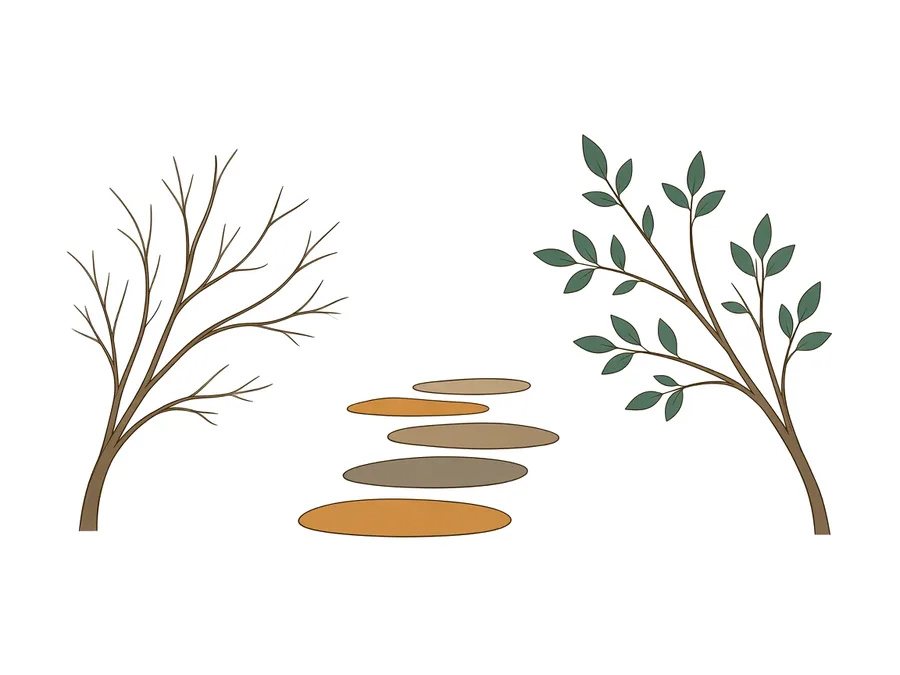
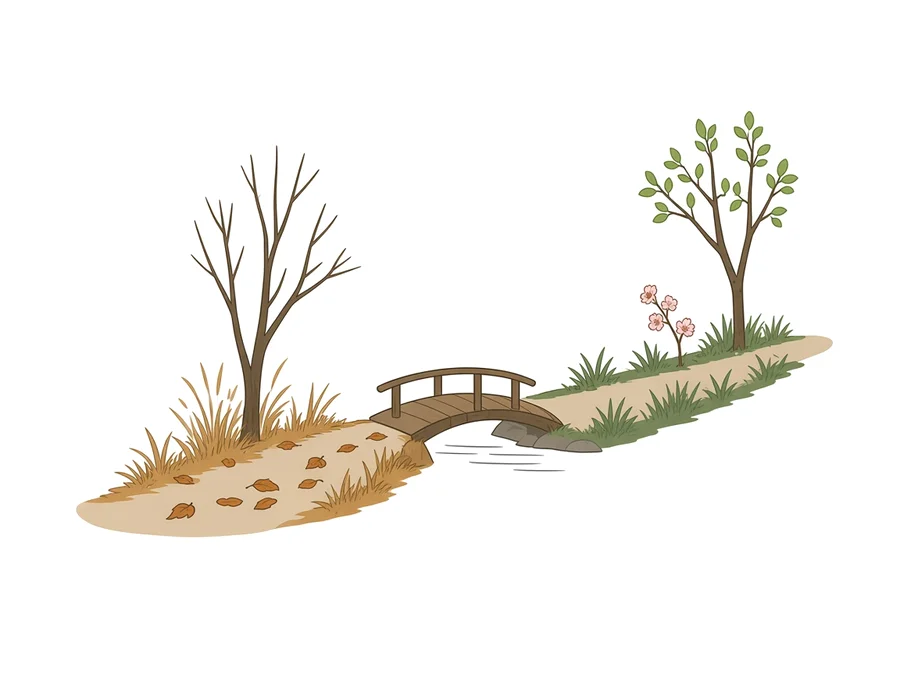
お名前を必須に・時刻欄を常に表示・任意欄は空でも進める・切り替わりの絵を変更

Changed region(s): [[0.0622, 0.1556, 0.9333, 0.8089]]

diff --git a/index.html b/index.html
@@ -46,7 +46,7 @@
     <fieldset>
       <legend>あなた</legend>
       <label class="field">
-        <span class="label">お名前<em>任意</em></span>
+        <span class="label">お名前</span>
         <input name="n" maxlength="20" placeholder="例：山田 花子" autocomplete="name">
       </label>
       <div class="field">
@@ -65,20 +65,17 @@
         </div>
         <small>10年ごとの流れの向きが、性別で変わります。</small>
       </div>
-      <details class="more">
-        <summary>生まれた時刻がわかる方（任意）</summary>
-        <div class="more-body">
-          <label class="field">
-            <span class="label">生まれた時刻</span>
-            <input type="time" name="t">
-          </label>
-          <label class="field">
-            <span class="label">生まれた都道府県</span>
-            <select name="p"><option value="">選ばない</option></select>
-          </label>
-          <small>時刻を入れると、命式に4つ目の柱（時柱）が加わります。タイプは変わりません。</small>
-        </div>
-      </details>
+      <div class="more">
+        <label class="field">
+          <span class="label">生まれた時刻<em>任意</em></span>
+          <input type="time" name="t">
+        </label>
+        <label class="field">
+          <span class="label">生まれた都道府県<em>任意</em></span>
+          <select name="p"><option value="">選ばない</option></select>
+        </label>
+        <small>時刻を入れると、命式に4つ目の柱（時柱）が加わります。タイプは変わりません。</small>
+      </div>
     </fieldset>
 
     <fieldset>
@@ -97,19 +94,19 @@
         </div>
       </div>
       <div class="field">
-        <span class="label">性別</span>
+        <span class="label">性別<em>任意</em></span>
         <div class="seg">
           <label><input type="radio" name="ps" value="M"><span>男性</span></label>
           <label><input type="radio" name="ps" value="F"><span>女性</span></label>
         </div>
       </div>
       <div class="field">
-        <span class="label">見たい関係</span>
+        <span class="label">見たい関係<em>任意</em></span>
         <div class="seg">
           <label><input type="radio" name="r" value="love"><span>恋愛</span></label>
           <label><input type="radio" name="r" value="work"><span>仕事</span></label>
         </div>
-        <small>上司・部下などの肩書きは聞きません。命式から本来の役割を出します。</small>
+        <small>選ばないときは恋愛で見ます。上司・部下などの肩書きは聞きません。命式から本来の役割を出します。</small>
       </div>
     </fieldset>
 

diff --git a/assets/app.js b/assets/app.js
@@ -79,13 +79,14 @@
   function onSubmit(ev) {
     ev.preventDefault();
     var f = ev.target, err = $('#err');
+    if (!f.n.value.trim()) return fail('お名前を入れてください。');
     var me = ymdOf(f, 'y', 'm', 'd');
     if (!me) return fail('あなたの生年月日を、年・月・日まで選んでください。');
     var s = radio(f, 's');
     if (!s) return fail('あなたの性別を選んでください。');
     if (me > todayStr()) return fail('生年月日が今日より後になっています。');
     var q = new URLSearchParams();
-    if (f.n.value.trim()) q.set('n', f.n.value.trim());
+    q.set('n', f.n.value.trim());
     q.set('d', me);
     q.set('s', s);
     if (f.t.value) { q.set('t', f.t.value); if (f.p.value) q.set('p', f.p.value); }
@@ -93,10 +94,10 @@
     if (pd === null) return fail('気になる人の生年月日を、年・月・日まで選んでください。');
     if (pd) {
       var ps = radio(f, 'ps'), r = radio(f, 'r');
-      if (!ps) return fail('気になる人の性別を選んでください。');
-      if (!r) return fail('見たい関係（恋愛／仕事）を選んでください。');
       if (pd > todayStr()) return fail('気になる人の生年月日が今日より後になっています。');
-      q.set('pd', pd); q.set('ps', ps); q.set('r', r);
+      q.set('pd', pd);
+      if (ps) q.set('ps', ps);
+      q.set('r', r || 'love');
       if (f.pn.value.trim()) q.set('pn', f.pn.value.trim());
     }
     err.textContent = '';

diff --git a/assets/style.css b/assets/style.css
@@ -131,9 +131,7 @@ input:focus, select:focus { outline: 2px solid var(--navy); outline-offset: 1px;
 }
 .seg input:checked + span { background: var(--navy); border-color: var(--navy); color: #fff; }
 .seg input:focus-visible + span { outline: 2px solid var(--navy); outline-offset: 2px; }
-.more { margin: -4px 0 18px; }
-.more summary { font-size: 14px; color: var(--sub); cursor: pointer; padding: 6px 0; }
-.more-body { padding-top: 12px; }
+.more { margin: 0 0 18px; }
 .error { min-height: 1.7em; color: #a3361f; font-size: 14px; font-weight: 500; margin: 8px 0; }
 .submit {
   position: relative; width: 100%; height: 62px; border: 0; border-radius: 999px;
